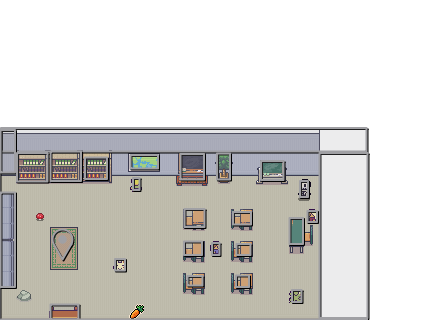
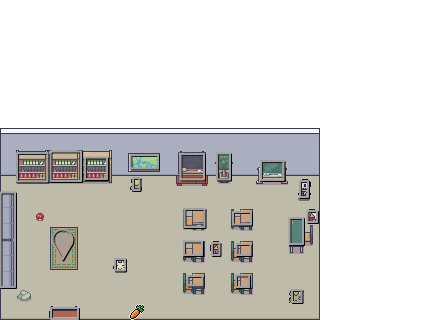
remove bounds on map

diff --git a/src/main.js b/src/main.js
@@ -23,6 +23,9 @@ k.loadSprite("map2", "./map2.png");
 // Load the lab map sprite
 k.loadSprite("map", "./map.png");
 
+// Load the boss fight map sprite
+k.loadSprite("map3", "./map3.png");
+
 k.setBackground(k.Color.fromHex("#311047"));
 
 k.scene("main", async () => {
@@ -343,6 +346,38 @@ k.scene("lab", async () => {
         continue;
       }
 
+      // Handle exit
+      if (layer.name === "exit") {
+        for (const exit of layer.objects) {
+          labMap.add([
+            k.area({
+              shape: new k.Rect(k.vec2(0), exit.width, exit.height),
+            }),
+            k.body({ isStatic: true }),
+            k.pos(exit.x, exit.y),
+            "exit",
+          ]);
+
+          player.onCollide("exit", () => {
+            console.log("Player collided with exit"); // Debug statement
+            if (player.isInDialogue) {
+              console.log("Player is already in dialogue"); // Debug statement
+              return;
+            }
+            player.isInDialogue = true;
+            displayDialogue(
+              "You are now entering the boss fight...",
+              () => {
+                console.log("Dialogue complete, transitioning to boss fight"); // Debug statement
+                player.isInDialogue = false;
+                k.go("bossFight");
+              }
+            );
+          });
+        }
+        continue;
+      }
+
       // Set spawn points
       if (layer.name === "spawnpoint") {
         for (const entity of layer.objects) {
@@ -489,6 +524,206 @@ k.scene("lab", async () => {
     });
   } catch (error) {
     console.error("Error initializing lab scene:", error);
+  }
+});
+
+// Define the boss fight scene
+k.scene("bossFight", async () => {
+  console.log("Starting boss fight scene initialization");
+
+  try {
+    // Load the boss fight map data
+    const response = await fetch("./map3.json");
+    if (!response.ok) {
+      throw new Error(`HTTP error! status: ${response.status}`);
+    }
+    const mapData = await response.json();
+    console.log("Successfully loaded map3 data");
+
+    const layers = mapData.layers;
+    console.log("Map3 layers:", layers);
+
+    // Add the boss fight map
+    const bossMap = k.add([
+      k.sprite("map3"),
+      k.pos(0),
+      k.scale(scaleFactor),
+    ]);
+
+    // Create player in boss fight
+    const player = k.make([
+      k.sprite("spritesheet", { anim: "idle-down" }),
+      k.area({
+        shape: new k.Rect(k.vec2(0, 3), 10, 10),
+      }),
+      k.body(),
+      k.anchor("center"),
+      k.pos(k.width() / 2, k.height() / 2), // Default position (center of screen)
+      k.scale(scaleFactor),
+      {
+        speed: 250,
+        direction: "down",
+        isInDialogue: false,
+      },
+      "player",
+    ]);
+
+    // Process map layers
+    for (const layer of layers) {
+      console.log("Processing layer:", layer.name);
+
+      // Add boundaries
+      if (layer.name === "boundaries") {
+        for (const boundary of layer.objects) {
+          bossMap.add([
+            k.area({
+              shape: new k.Rect(k.vec2(0), boundary.width, boundary.height),
+            }),
+            k.body({ isStatic: true }),
+            k.pos(boundary.x, boundary.y),
+            boundary.name,
+          ]);
+        }
+        continue;
+      }
+
+      // Set spawn points
+      if (layer.name === "spawnpoint") {
+        for (const entity of layer.objects) {
+          if (entity.name === "player") {
+            console.log("Setting player spawn position:", entity.x, entity.y);
+            player.pos = k.vec2(
+              (bossMap.pos.x + entity.x) * scaleFactor,
+              (bossMap.pos.y + entity.y) * scaleFactor
+            );
+            continue;
+          }
+        }
+      }
+    }
+
+    // Add the player to the scene
+    k.add(player);
+
+    // Add camera scaling and controls
+    setCamScale(k);
+    console.log("Boss fight scene initialization complete");
+
+    // Add movement controls (reuse the same logic as the main scene)
+    k.onMouseDown((mouseBtn) => {
+      if (mouseBtn !== "left" || player.isInDialogue) return;
+
+      const worldMousePos = k.toWorld(k.mousePos());
+      player.moveTo(worldMousePos, player.speed);
+
+      const mouseAngle = player.pos.angle(worldMousePos);
+
+      const lowerBound = 50;
+      const upperBound = 125;
+
+      if (
+        mouseAngle > lowerBound &&
+        mouseAngle < upperBound &&
+        player.curAnim() !== "walk-up"
+      ) {
+        player.play("walk-up");
+        player.direction = "up";
+        return;
+      }
+
+      if (
+        mouseAngle < -lowerBound &&
+        mouseAngle > -upperBound &&
+        player.curAnim() !== "walk-down"
+      ) {
+        player.play("walk-down");
+        player.direction = "down";
+        return;
+      }
+
+      if (Math.abs(mouseAngle) > upperBound) {
+        player.flipX = false;
+        if (player.curAnim() !== "walk-side") player.play("walk-side");
+        player.direction = "right";
+        return;
+      }
+
+      if (Math.abs(mouseAngle) < lowerBound) {
+        player.flipX = true;
+        if (player.curAnim() !== "walk-side") player.play("walk-side");
+        player.direction = "left";
+        return;
+      }
+    });
+
+    function stopAnims() {
+      if (player.direction === "down") {
+        player.play("idle-down");
+        return;
+      }
+      if (player.direction === "up") {
+        player.play("idle-up");
+        return;
+      }
+
+      player.play("idle-side");
+    }
+
+    k.onMouseRelease(stopAnims);
+
+    k.onKeyRelease(() => {
+      stopAnims();
+    });
+
+    k.onKeyDown((key) => {
+      const keyMap = [
+        k.isKeyDown("right"),
+        k.isKeyDown("left"),
+        k.isKeyDown("up"),
+        k.isKeyDown("down"),
+      ];
+
+      let nbOfKeyPressed = 0;
+      for (const key of keyMap) {
+        if (key) {
+          nbOfKeyPressed++;
+        }
+      }
+
+      if (nbOfKeyPressed > 1) return;
+
+      if (player.isInDialogue) return;
+      if (keyMap[0]) {
+        player.flipX = false;
+        if (player.curAnim() !== "walk-side") player.play("walk-side");
+        player.direction = "right";
+        player.move(player.speed, 0);
+        return;
+      }
+
+      if (keyMap[1]) {
+        player.flipX = true;
+        if (player.curAnim() !== "walk-side") player.play("walk-side");
+        player.direction = "left";
+        player.move(-player.speed, 0);
+        return;
+      }
+
+      if (keyMap[2]) {
+        if (player.curAnim() !== "walk-up") player.play("walk-up");
+        player.direction = "up";
+        player.move(0, -player.speed);
+        return;
+      }
+
+      if (keyMap[3]) {
+        if (player.curAnim() !== "walk-down") player.play("walk-down");
+        player.direction = "down";
+        player.move(0, player.speed);
+      }
+    });
+  } catch (error) {
+    console.error("Error initializing boss fight scene:", error);
   }
 });
 
